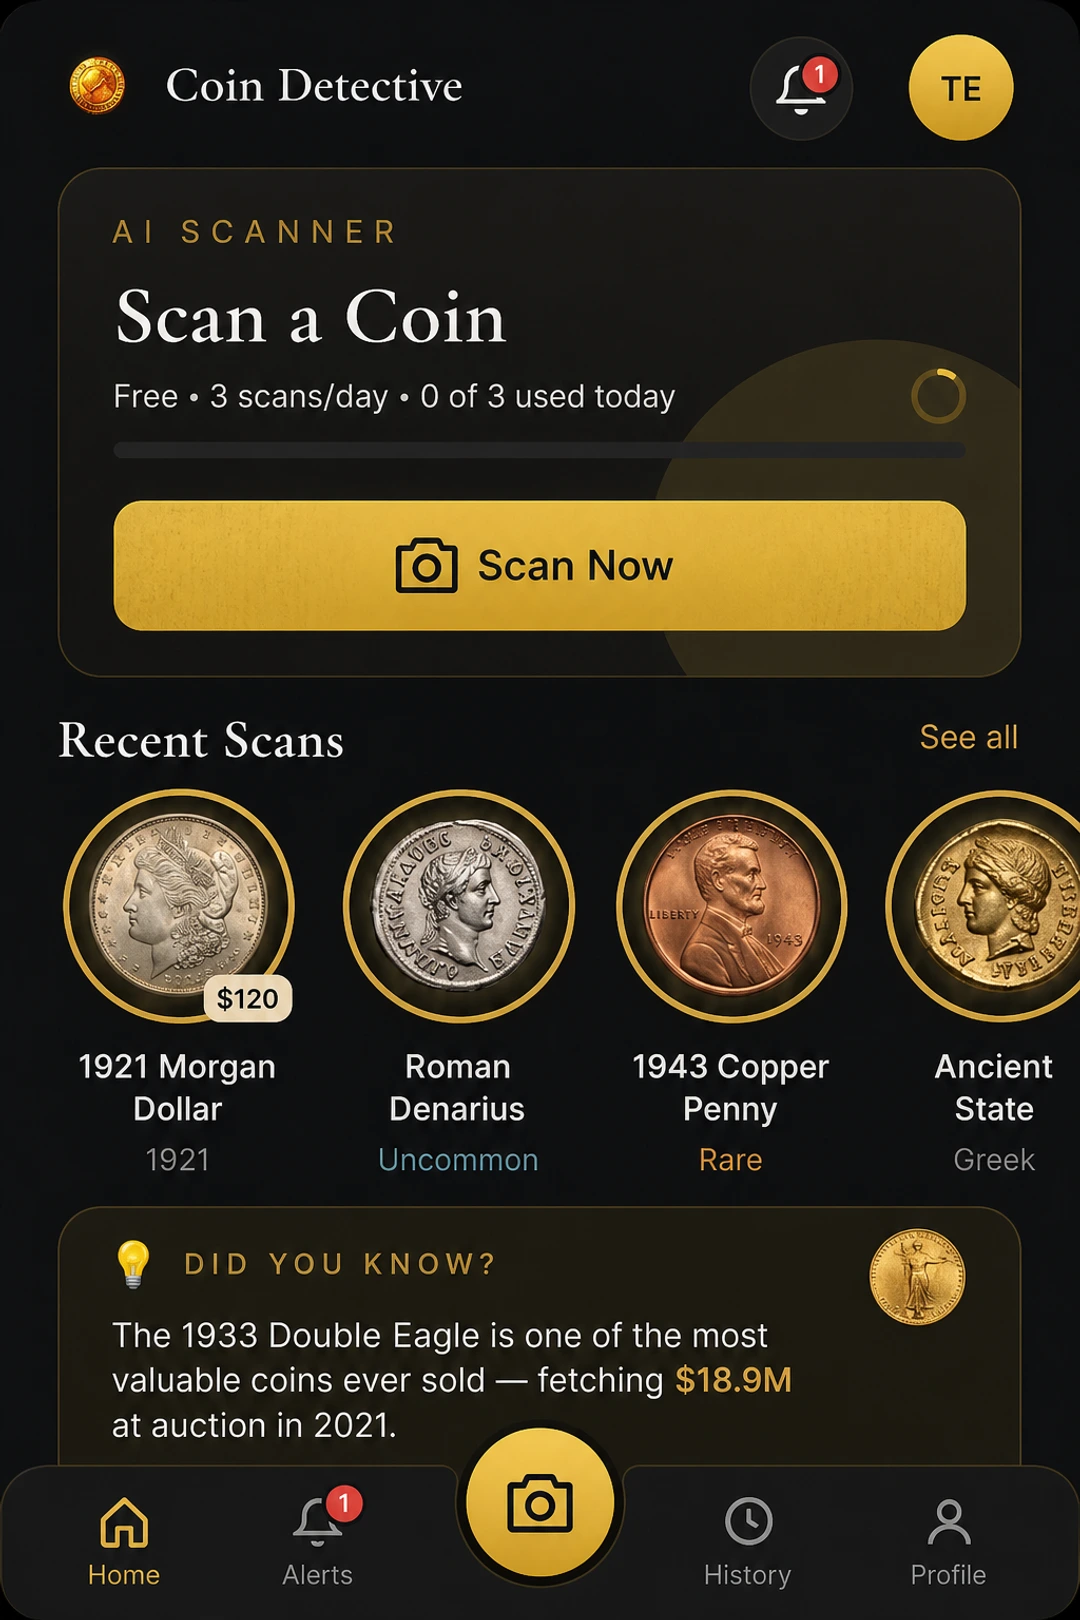
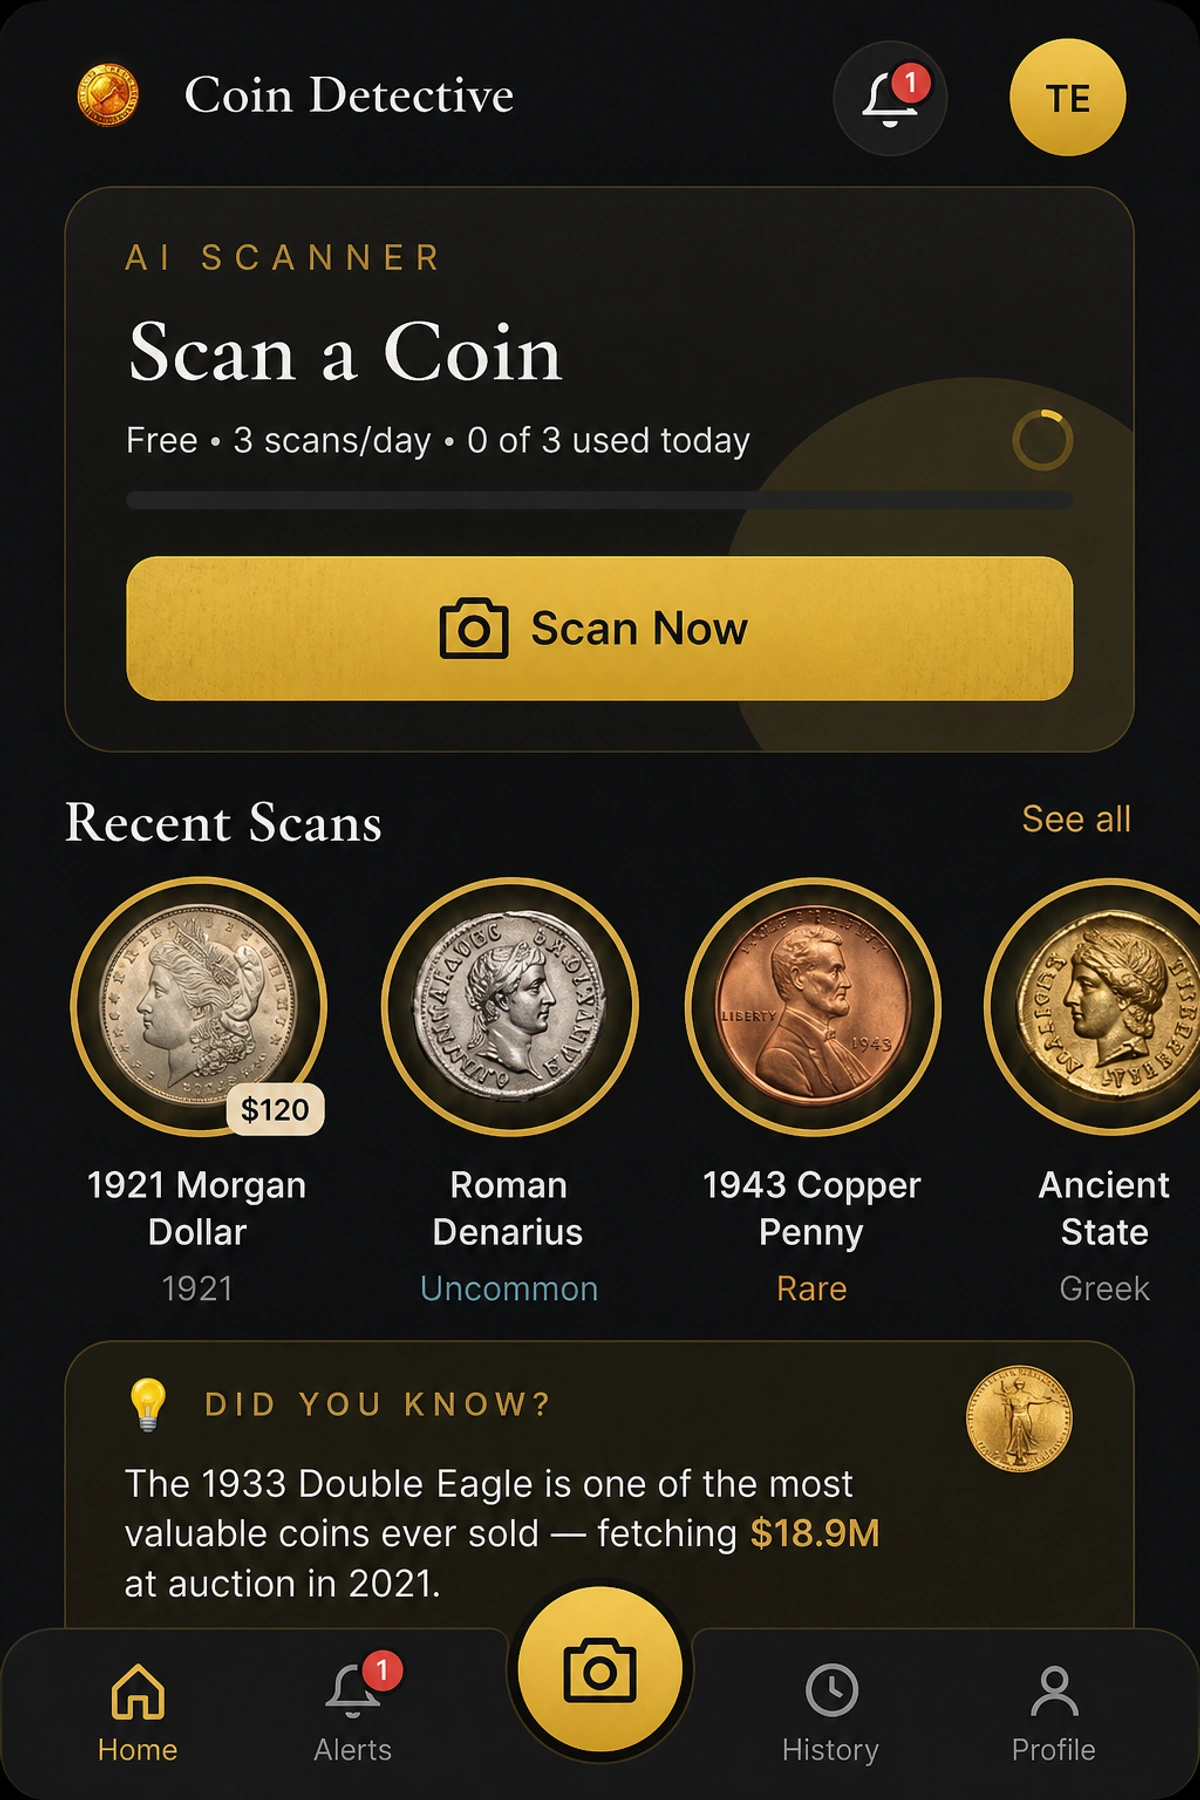
set an hero section phone image

diff --git a/src/styles.css b/src/styles.css
@@ -1,5 +1,4 @@
-@import "tailwindcss" source(none);
-@source "../src";
+@import "tailwindcss";
 @import "tw-animate-css";
 
 @custom-variant dark (&:is(.dark *));
@@ -98,36 +97,48 @@
 }
 
 /*
- * Hero phone overlap: half of the scan (back) image stays visible.
- * Same height unit for both phones so zoom keeps a stable 50/50 split.
+ * Hero phones — always half camera peek / half under home (zoom-safe).
+ * Keep stack perfectly square (width capped same as height limits).
+ * Front starts at 33.33% so exactly half of the camera stays visible.
  */
 .hero-phone-stack {
-  --hero-phone-h: min(74vh, 620px);
-  --hero-phone-ratio: 0.667; /* ~1080/1620 */
+  --phone-w: 66.6667%;
+  --peek: 33.3333%;
   position: relative;
-  height: var(--hero-phone-h);
-  width: calc(var(--hero-phone-h) * var(--hero-phone-ratio) * 1.5);
-  max-height: calc(100vh - 8rem);
+  width: min(100%, 34rem, 85vh, 760px);
+  aspect-ratio: 1 / 1;
+  height: auto;
   margin-right: 0;
-  flex-shrink: 0;
+  flex-shrink: 1;
+  min-width: 0;
+  background: transparent;
 }
 
 .hero-phone-stack .hero-phone-back,
 .hero-phone-stack .hero-phone-front {
   position: absolute;
   bottom: 0;
-  width: auto;
+  width: var(--phone-w);
   display: block;
+  object-fit: contain;
+  object-position: center center;
+  background: transparent;
+  border: none;
+  -webkit-backface-visibility: hidden;
+  backface-visibility: hidden;
 }
 
 .hero-phone-stack .hero-phone-back {
   left: 0;
   z-index: 0;
-  height: 92%;
+  /* Match front box aspect — removes left/right letterbox strip */
+  height: 100%;
 }
 
 .hero-phone-stack .hero-phone-front {
-  right: 0;
+  /* Anchored at half of back phone — does not drift on zoom */
+  left: var(--peek);
+  right: auto;
   z-index: 10;
   height: 100%;
 }

diff --git a/src/pages/LandingPage.tsx b/src/pages/LandingPage.tsx
@@ -399,8 +399,8 @@ export default function LandingPage() {
       <section className="relative hero-section section-gold-shade overflow-x-hidden">
         <div className="absolute inset-0 bg-gradient-vault pointer-events-none" />
         <div className="hero-container relative z-10 mx-auto max-w-7xl w-full">
-          <div className="grid lg:grid-cols-3 gap-8 place-items-center pt-6 md:pt-0 w-full">
-            <div className="lg:col-span-2 min-w-0 w-full max-w-2xl justify-self-center lg:justify-self-start text-center lg:text-left flex flex-col items-center lg:items-start">
+          <div className="grid lg:grid-cols-2 gap-8 lg:gap-10 xl:gap-12 items-center pt-6 md:pt-0 w-full min-w-0">
+            <div className="relative z-20 min-w-0 w-full max-w-xl justify-self-center lg:justify-self-start text-center lg:text-left flex flex-col items-center lg:items-start">
               <div className="inline-flex items-center gap-2 rounded-full border border-gold/30 bg-gold/10 backdrop-blur-sm px-5 py-2 text-sm font-medium text-gold mb-8">
                 <span className="w-1.5 h-1.5 rounded-full bg-gold" />
                 Trusted by collectors worldwide
@@ -436,30 +436,33 @@ export default function LandingPage() {
               </div>
             </div>
 
-            <div className="relative flex items-end justify-center lg:justify-end place-self-center lg:place-self-end min-w-0 w-full pr-0 sm:pr-1 lg:pr-2 pb-6 lg:pb-8">
+            <div className="relative z-10 flex items-end justify-center lg:justify-end place-self-center lg:place-self-end min-w-0 w-full max-w-full pr-0 lg:pr-1 pb-4 lg:pb-6">
               <div className="absolute inset-0 -inset-x-10 -inset-y-10 bg-gold/10 rounded-full blur-3xl -z-10 pointer-events-none" />
-              {/* Mobile: centered single phone */}
+              {/* Mobile: tall clear single phone */}
               <div className="sm:hidden flex justify-center w-full">
                 <img
                   src={shotHome}
                   alt="Coin Detective app"
                   draggable={false}
-                  className="h-[min(62vh,520px)] w-auto rounded-[2rem] border border-border/40 shadow-2xl shadow-black/50 bg-black object-contain select-none pointer-events-none"
+                  decoding="async"
+                  className="h-[min(72vh,600px)] w-auto max-w-[min(100%,320px)] rounded-[2rem] shadow-2xl shadow-black/50 object-contain select-none pointer-events-none"
                 />
               </div>
-              {/* Desktop: half scan peek / half covered */}
-              <div className="hero-phone-stack hidden sm:block mr-0">
+              {/* Desktop: tall full-screen shots, sharp, stay in column */}
+              <div className="hero-phone-stack hidden sm:block">
                 <img
                   src={shotCamera}
                   alt="Coin Detective camera scanner"
                   draggable={false}
-                  className="hero-phone-back rounded-[2rem] shadow-2xl shadow-black/40 border border-border/20 bg-black object-contain select-none pointer-events-none opacity-95"
+                  decoding="async"
+                  className="hero-phone-back rounded-[2rem] shadow-2xl shadow-black/40 object-contain select-none pointer-events-none"
                 />
                 <img
                   src={shotHome}
                   alt="Coin Detective home"
                   draggable={false}
-                  className="hero-phone-front rounded-[2rem] md:rounded-[2.25rem] shadow-2xl shadow-black/50 border border-border/40 bg-black object-contain select-none pointer-events-none"
+                  decoding="async"
+                  className="hero-phone-front rounded-[2rem] md:rounded-[2.25rem] shadow-2xl shadow-black/50 object-contain select-none pointer-events-none"
                 />
               </div>
             </div>
@@ -774,11 +777,6 @@ export default function LandingPage() {
               <li>
                 <a href="#support" className="hover:text-gold">
                   FAQ
-                </a>
-              </li>
-              <li>
-                <a href="mailto:[email redacted]" className="hover:text-gold">
-                  Contact Us
                 </a>
               </li>
             </ul>